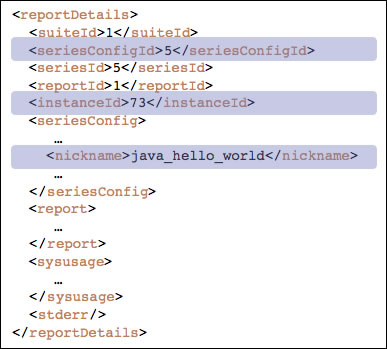
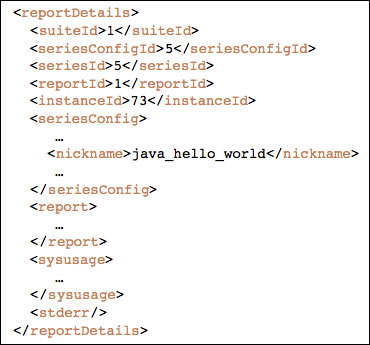
remove image highlights
git-svn-id: file:///localdisk/subversion/inca/trunk/pubs@5604 7dba3f4a-8be6-0310-8b3b-b4fec25ea7f3

Changed region(s): [[0.0297, 0.0, 0.9811, 0.3768], [0.0297, 0.4058, 0.9811, 0.7826], [0.0297, 0.8116, 0.3865, 0.9855]]

diff --git a/docs/publish/html/userguide.html b/docs/publish/html/userguide.html
@@ -1942,7 +1942,7 @@ or customized status information.  The Inca depot comes with two pre-defined que
 TYPE="1"
 ><LI
 ><P
->given instance and config IDs for a series, return XML like the following (the results from executing
+>given instance and config IDs for a series, returns XML like the following (the results from executing
 a reporter at a particular point in time)
 <P
 ><IMG
@@ -1952,7 +1952,7 @@ ALIGN="CENTER"></P
 ></LI
 ><LI
 ><P
->given a suite name, returns XML like the following (the latest report summaries for all of the series in the particular suite). 
+>given a suite name, returns XML like the following (the latest report summaries for all of the series in the particular suite)
 <P
 ><IMG
 SRC="figures/consumer-xmlsummaries.jpg"
